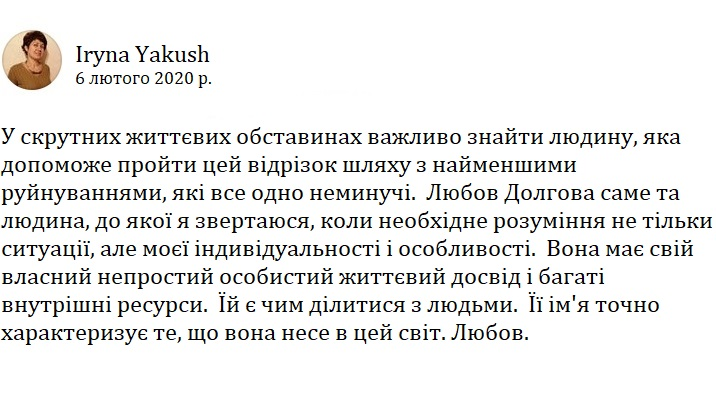
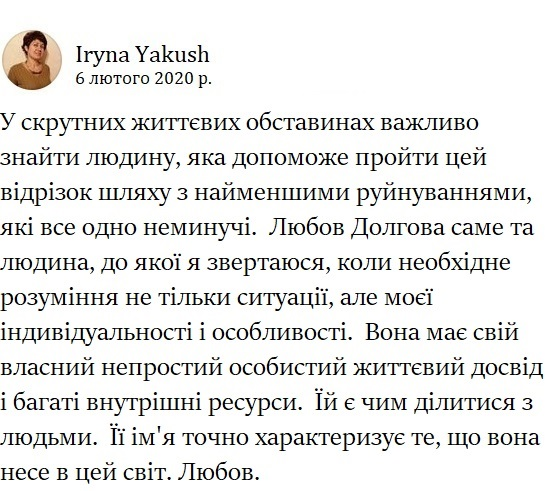
update background, review images, footer

Changed region(s): [[0.0, 0.2993, 0.9982, 0.9875], [0.0, 0.0599, 0.8734, 0.2693]]

diff --git a/css/style.css b/css/style.css
@@ -47,7 +47,7 @@ h4, h5, p {
   font-size: 20px;
   line-height: 1.5;
   margin-top: 1rem;
-  margin-bottom: 1rem;
+  margin-bottom: 2rem;
 }
 
 h4 {
@@ -383,7 +383,7 @@ h6 {
 }
 
 .services {
-  background: white;
+  background: #f2f7e8;
   box-sizing: border-box;
 }
 
@@ -413,6 +413,18 @@ h6 {
   }
 }
 
+@media screen and (max-width:960px) and (min-width:600px){
+  .service-icon {
+    width: 10%;
+  }
+}
+
+@media screen and (max-width:1057px) and (min-width:960px){
+h3 {
+  font-size: 20px;
+}
+}
+
 .education {
   background: white;
   box-sizing: border-box;
@@ -423,7 +435,7 @@ h6 {
 }
 
 .webinars {
-  background: white;
+  background: #f2f7e8;
 }
 
 .slider-middle {
@@ -448,17 +460,15 @@ h6 {
 }
 
 .navigation {
-  position: absolute;
+  position: relative;
   bottom: 0;
-  left: 50%;
-  transform: translateX(-50%);
-  display: flex;
+  left:130px;
 }
 
 .bar {
   height: 8px;
-  width: 30px;
-  margin: 6px;
+  width: 20px;
+  margin: 5px;
   cursor: pointer;
   background-color: grey;
   opacity: .5;
@@ -490,6 +500,8 @@ input[name="r"] {
 .slide img {
   width: 100%;
   height: 100%;
+  max-width: 400px;
+  margin-top: -10px;
 }
 
 #r1:checked~.s1 {
@@ -533,7 +545,7 @@ footer {
 }
 
 .form {
-  max-width: 450px;
+  max-width: 400px;
   margin: 0 auto 0 33%;
   width: auto;
 }
@@ -541,7 +553,7 @@ footer {
 @media screen and (max-width:960px) {
   .form {
     max-width: auto;
-    width: 85%;
+    width: 100%;
     margin-left: 0px;
   }
 }
